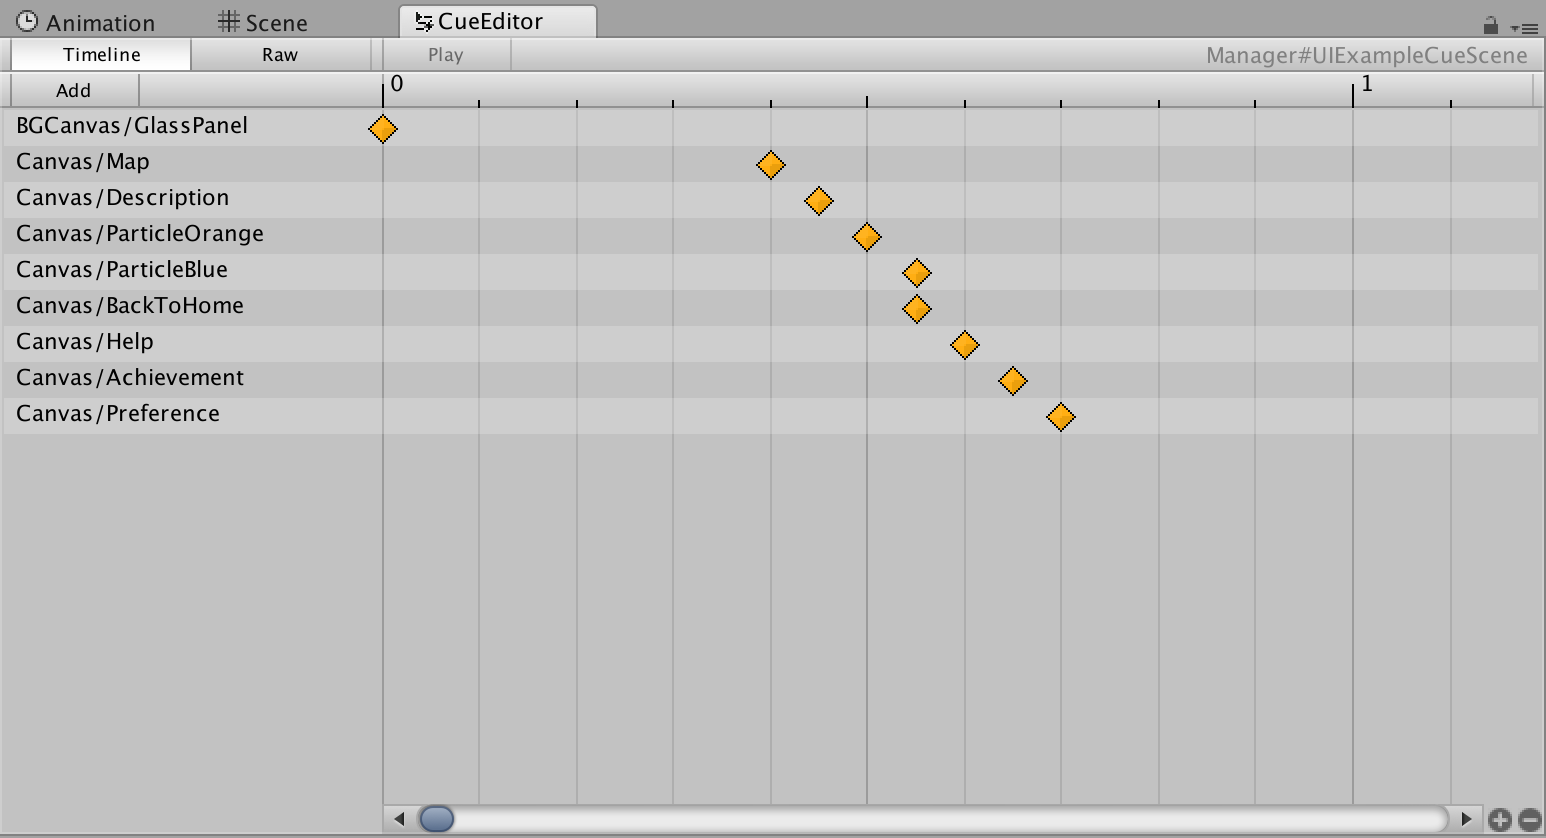
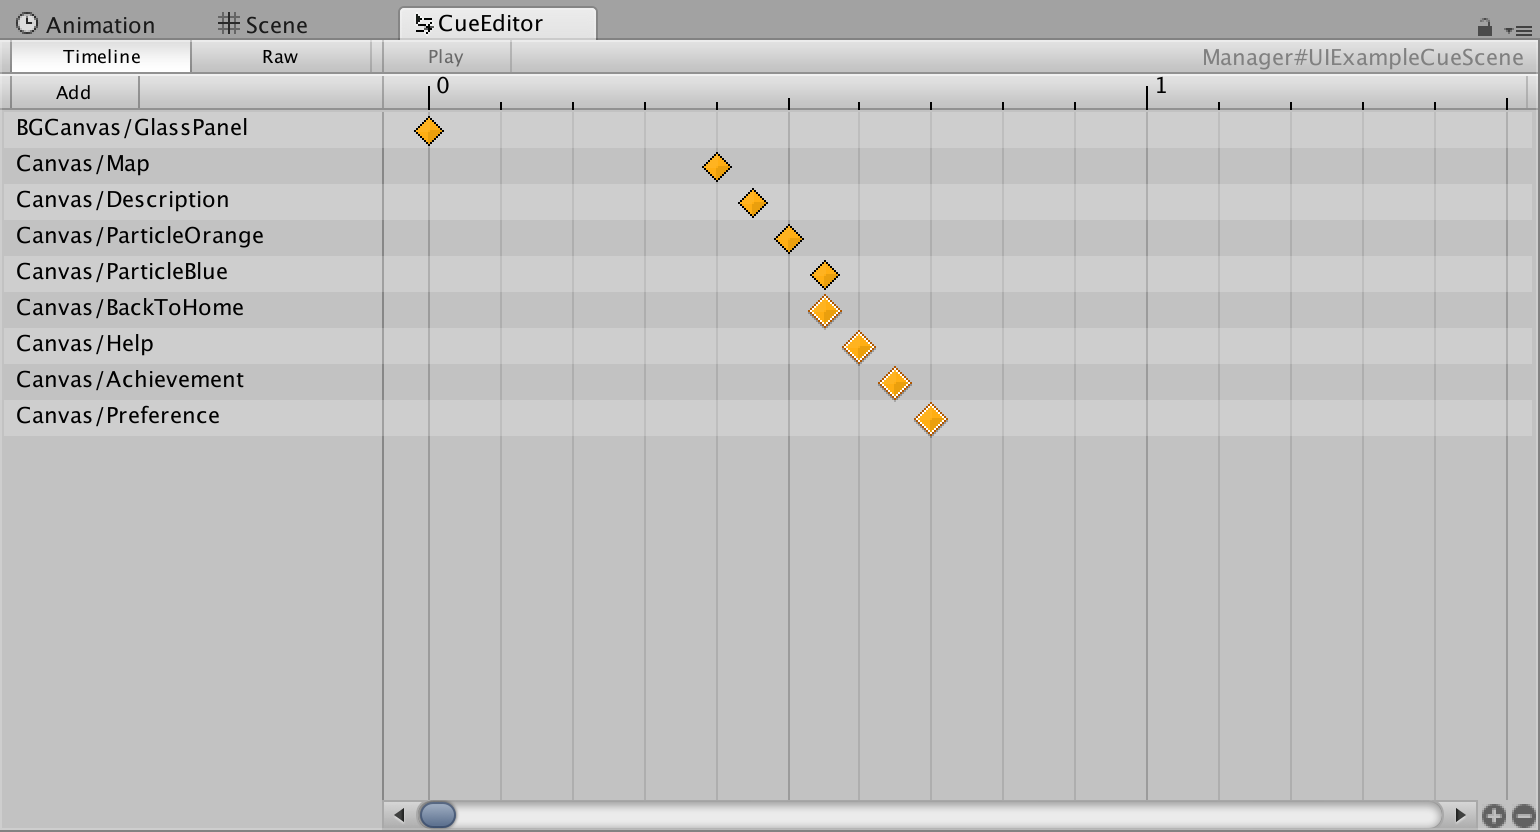
Update README.md
Timeline表示での編集に関する記述を入れた

Changed region(s): [[0.0, 0.0, 0.9974, 0.5312], [0.0, 0.9375, 1.0, 1.0], [0.4364, 0.1875, 0.7169, 0.5312]]

diff --git a/README.md b/README.md
@@ -12,8 +12,8 @@ EclairCueMakerはあくまでアニメーション再生などの「合図」を
 時間差をつけて実行される「合図」です。`Cue`が保持している情報は以下の通りです。
 * 直前の`Cue`からの待機時間
 * キューを出す対象となるゲームオブジェクト
-* そのゲームオブジェクトにアタッチされた`CueEvent`の中のどれを実行するか
-* `CueEvent`ごとのパラメーター
+* そのゲームオブジェクトにアタッチされたCueEventの中のどれを実行するか
+* CueEventごとのパラメーター
 
 ### CueEvent
 `Cue`が発行された際に起こる動作です。あらかじめ数種類が用意されており、いずれかを対象のゲームオブジェクトにアタッチして使用します。実体は`CueEventBase`を継承したクラスですので、必要に応じて自作することができます。
@@ -30,7 +30,7 @@ Unityシーン内の実際のゲームオブジェクトにアタッチして使
 ## 任意のメソッドを実行できるようにしなかった理由
 `Cue`には`CueEventBase`を継承したクラスに書かれた動作しか関連付けられず、`Cue`発行時に好きなメソッドを好き放題実行することはできません。理由は、「EclairCueMakerを知らない人がプロジェクトファイルを見た時に解読のヒントを与える」ためです。  
 実はUnityに標準でEclairCueMakerのような機能があり、Animationがそれに該当します。UnityのAnimationでは、"Event"という概念で好きなタイミングで好きなメソッドを実行できます。しかしこの機能は広くは知られていません。AnimationのEvent機能を知らない人がプロジェクトファイルを見た場合、「なんでか知らないけど効果音が鳴る処理が突然実行される、どこから実行されてるのか分からない…」といった状況に陥ります。  
-一方EclairCueMakerでは、アニメーション再生や効果音再生などの処理が走るゲームオブジェクトにはかならず`CueEvent`継承クラスがアタッチされているので、そこを糸口にEclairCueMakerの存在に気づき、解読を進めることができます。
+一方EclairCueMakerでは、アニメーション再生や効果音再生などの処理が走るゲームオブジェクトにはかならず`CueEventBase`継承クラスがアタッチされているので、そこを糸口にEclairCueMakerの存在に気づき、解読を進めることができます。
 
 ## 導入方法
 1. EclairCueMakerをダウンロードまたはgit cloneします。
@@ -118,6 +118,21 @@ EclairCueMakerの要となる、CueSceneEditorの使い方です。
 
 CueSceneの編集に関しては、現在、Raw表示でのみ対応しています。
 
+### Timeline表示での編集
+<img src="Images/CueSceneEditorTimeline.png" width="640px" />
+
+以下の操作ができます。
+
+* スクロール操作でタイムラインを横スクロール
+* Shiftを押しながらスクロール操作でズームイン/アウト
+* Cue![Cue](Images/CueIcon.png)をクリックでそのCueを選択![Selected Cue](Images/CueIconSelected.png)
+* CueをダブルクリックでCueを個別に編集
+* Shiftを押しながらCueをクリックでCueを複数選択
+* Cueをドラッグで選択したCueを移動
+* Altを押しながらCueをドラッグで選択したCueを複製
+
+Cueをダブルクリックした際に出るウィンドウについては[Raw表示での編集](#raw表示での編集)を参照してください。
+
 ### Raw表示での編集
 CueSceneに含まれているCueが上から下へ時系列で並んでいます。
 右下の + ボタンを押すと、新しいCueを作成します。
@@ -126,7 +141,7 @@ CueSceneに含まれているCueが上から下へ時系列で並んでいます
 Cue
 
 "Duration"は、一つ前に実行されたCueからの待機時間を示しています。
-Durationより左の領域でCueEventを指定します。
+Durationより右の領域でCueEventを指定します。
 左上に位置しているのが、対象となるゲームオブジェクトです。
 このゲームオブジェクトは、CueScenePlayerがアタッチされているゲームオブジェクトと同じシーンに含まれている必要があり、かつ、CueEventコンポーネントをアタッチしている必要があります。
 
